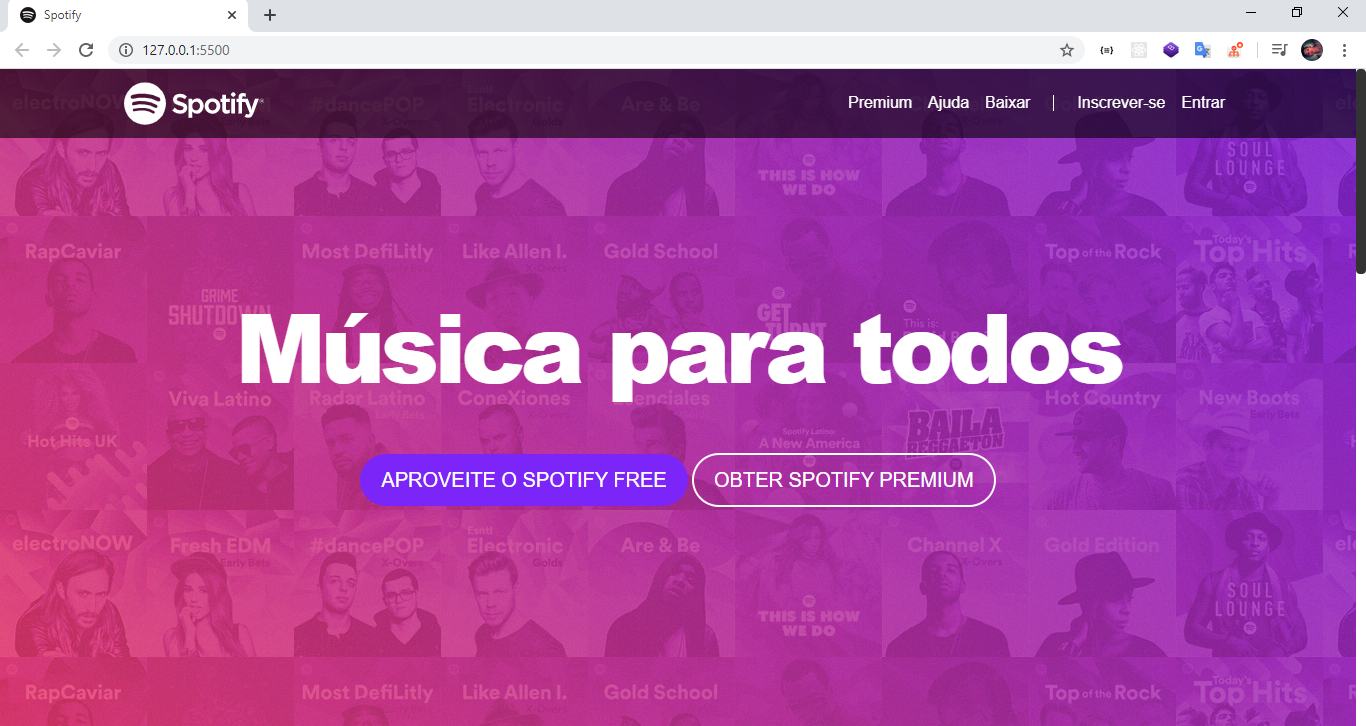
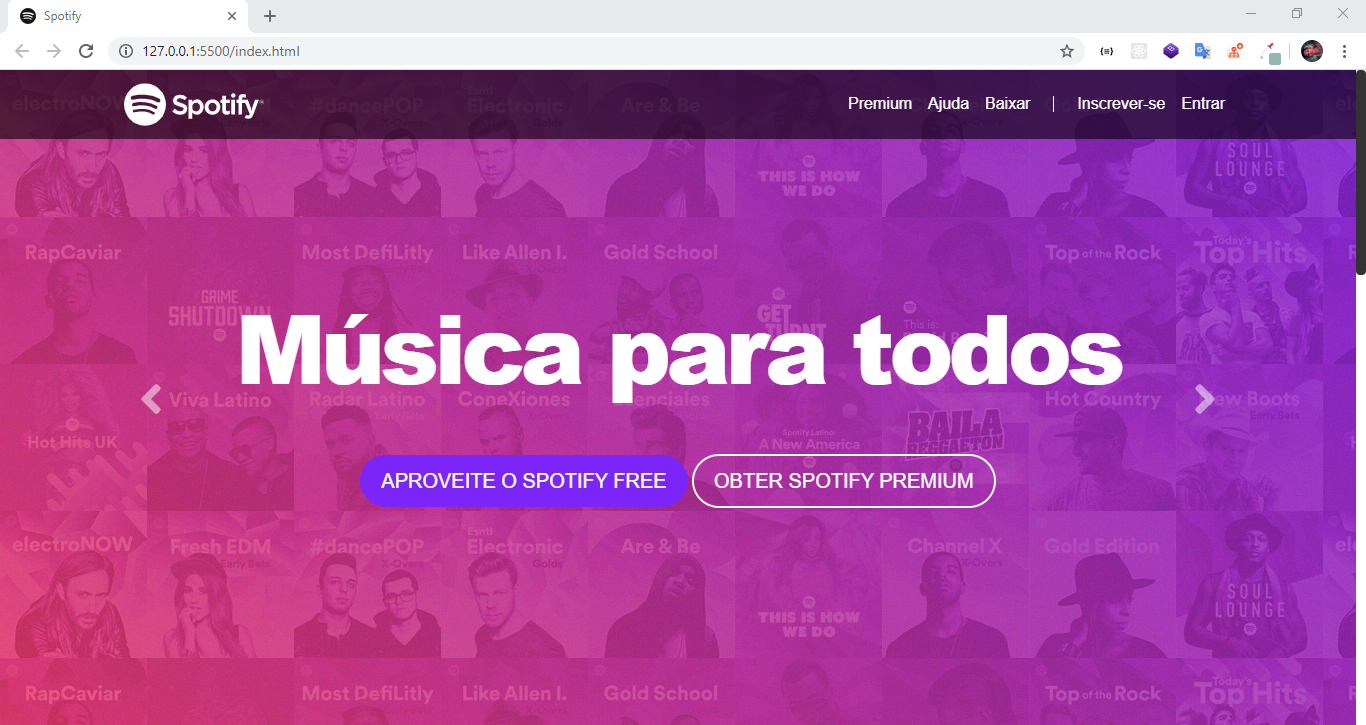
carousel

diff --git a/index.html b/index.html
@@ -62,9 +62,33 @@
     <div class="container align-self-center">
       <div class="row">
         <div class="col-md-12 text-center capa">
-          <h1>Música para todos</h1>
-          <a href="#" class="btn btn-lg btn-custom btn-roxo mb-1 mb-md-0">Aproveite o Spotify Free</a>
-          <a href="#" class="btn btn-lg btn-custom btn-branco">Obter Spotify Premium</a>
+
+          <div id="carousel-spotify" class="carousel slide" data-ride="carousel">
+            <!-- Inner itens -->
+            <div class="carousel-inner">
+              <div class="carousel-item active">
+                <h1>Música para todos</h1>
+                <a href="#" class="btn btn-lg btn-custom btn-roxo mb-1 mb-md-0">Aproveite o Spotify Free</a>
+                <a href="#" class="btn btn-lg btn-custom btn-branco">Obter Spotify Premium</a>
+
+              </div>
+              <div class="carousel-item">
+                <h1>As melhores rádios</h1>
+                <a href="#" class="btn btn-lg btn-custom btn-branco"><i class="fas fa-music"></i> Ouça agora</a>
+              </div>
+            </div>
+
+            <!-- Controls -->
+            <a href="#carousel-spotify" class="carousel-control-prev" data-slide="prev">
+              <i class="fas fa-angle-left fa-3x"></i>
+            </a>
+
+            <a href="#carousel-spotify" class="carousel-control-next" data-slide="next">
+              <i class="fas fa-angle-right fa-3x"></i>
+            </a>
+
+          </div>
+
         </div>
       </div>
     </div>

diff --git a/css/styles.css b/css/styles.css
@@ -63,6 +63,10 @@ nav.navbar-transparente {
   color: black;
 }
 
+.carousel-control-next, .carousel-control-prev {
+  width: 5%;
+}
+
 /* Estrutura content */
 .caixa {
   padding: 20px 0;
